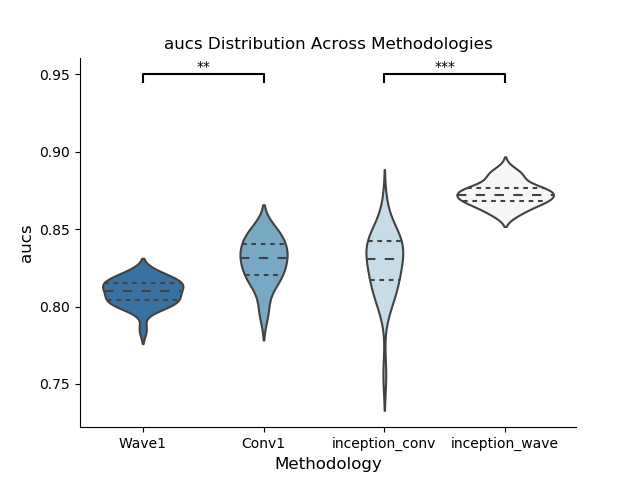
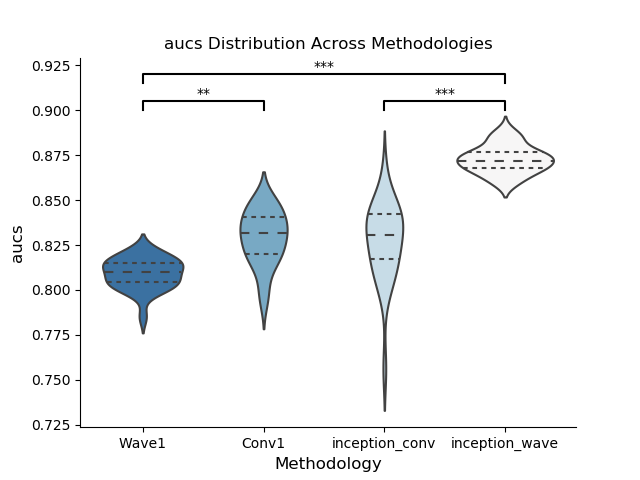
figure annotation

diff --git a/src/statistics.py b/src/statistics.py
@@ -46,9 +46,19 @@ def multitest_stats(data1, data2):
 
     return y
 
+def annotatefig(sig, x1, x2, y, h):
+    if sig < 0.05:
+        if (sig < 0.05 and sig > 0.01):
+            sigtext = '*'
+        elif (sig < 0.01 and sig > 0.001): 
+            sigtext = '**'
+        elif sig < 0.001: 
+            sigtext = '***'
 
+        plt.plot([x1, x1, x2, x2], [y, y+h, y+h, y], lw=1.5, c='k')
+        plt.text((x1+x2)*.5, y+h, sigtext , ha='center', va='bottom', color='k')
 
-def violin_plots(df, metric, methods, sig_sl = None, sig_ml = None):
+def violin_plots(df, metric, methods, sig_sl = None, sig_ml = None, sig_wl = None, sig_cl = None):
     """
     Definitions:
     Inputs:
@@ -72,33 +82,25 @@ def violin_plots(df, metric, methods, sig_sl = None, sig_ml = None):
     plt.gca().spines['right'].set_visible(False)
 
     if sig_sl != None:
-        if sig_sl[1][0] > 0.05:
-            sigtext = 'ns'
-        elif (sig_sl[1][0] < 0.05 and sig_sl[1][0] > 0.01):
-            sigtext = '*'
-        elif (sig_sl[1][0] < 0.01 and sig_sl[1][0] > 0.001): 
-            sigtext = '**'
-        elif sig_sl[1][0] < 0.001: 
-            sigtext = '***'
         x1, x2 = 0, 1
-        y, h, col = .945, .005, 'k'
-        plt.plot([x1, x1, x2, x2], [y, y+h, y+h, y], lw=1.5, c=col)
-        plt.text((x1+x2)*.5, y+h, sigtext , ha='center', va='bottom', color=col)
+        y, h, col = .90, .005, 'k'
+        annotatefig(sig_sl[1][0], x1, x2, y, h)
 
     if sig_ml != None:
-        if sig_ml[1][0] > 0.05:
-            sigtext = 'ns'
-        elif (sig_ml[1][0] < 0.05 and sig_ml[1][0] > 0.001):
-            sigtext = '*'
-        elif (sig_ml[1][0] < 0.01 and sig_ml[1][0] > 0.001): 
-            sigtext = '**'
-        elif sig_ml[1][0] < 0.001: 
-            sigtext = '***'
         x1, x2 = 2, 3
-        y, h, col = .945, .005, 'k'
-        plt.plot([x1, x1, x2, x2], [y, y+h, y+h, y], lw=1.5, c=col)
-        plt.text((x1+x2)*.5, y+h, sigtext, ha='center', va='bottom', color=col)
-    
+        y, h, col = .90, .005, 'k'
+        annotatefig(sig_ml[1][0], x1, x2, y, h)
+
+    if sig_wl != None:
+        x1, x2 = 0, 3
+        y, h, col = .915, .005, 'k'
+        annotatefig(sig_wl[1][0], x1, x2, y, h)
+
+    if sig_cl != None:
+        x1, x2 = 1, 2
+        y, h, col = .915, .005, 'k'
+        annotatefig(sig_cl[1][0], x1, x2, y, h)
+
     plt.savefig(os.path.split(os.getcwd())[0] + "/results/" + metric + "_Across_Methods.png")
 
 if __name__ == '__main__':
@@ -170,10 +172,12 @@ if __name__ == '__main__':
         
         print("Comparing Multi-level Analysis")
         sml = multitest_stats(np_wavecept, np_convcept)
-            
+        
+        swl = multitest_stats(np_wavecept, np_wave1)
+        scl = multitest_stats(np_conv1, np_convcept)
     if create_violin:
         print("Violin Plots")
         if check_stats:
-            violin_plots(df, metrics[0], models, sig_sl = ssl, sig_ml = sml)
+            violin_plots(df, metrics[0], models, sig_sl = ssl, sig_ml = sml, sig_wl = swl, sig_cl = scl)
         else:
             violin_plots(df, metrics[0], models)
